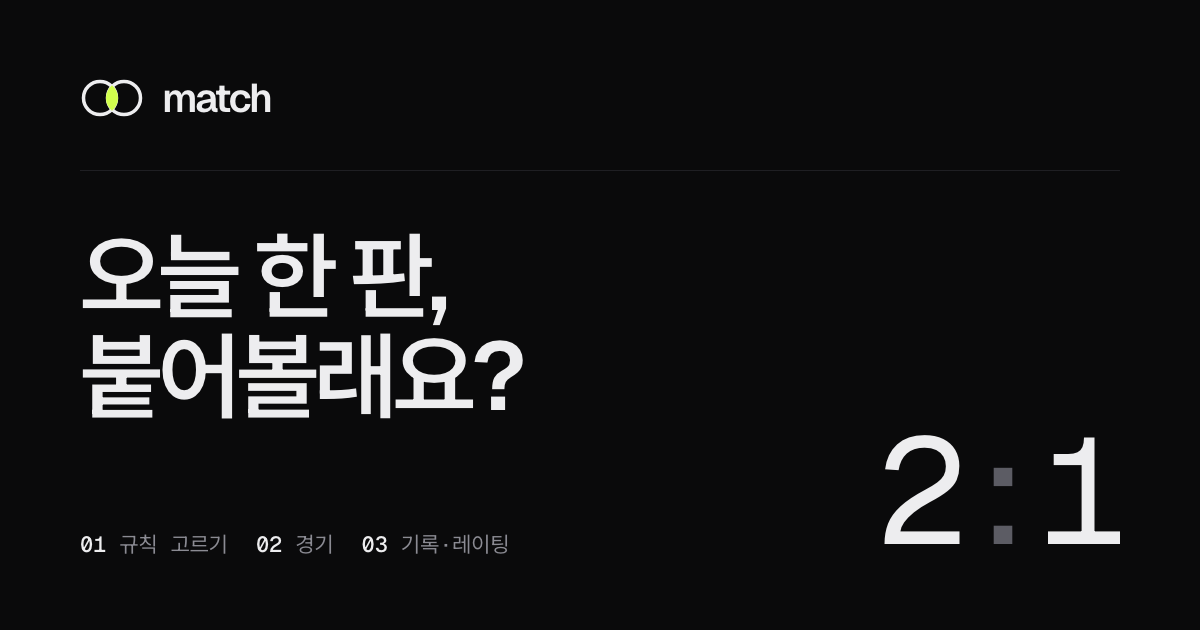
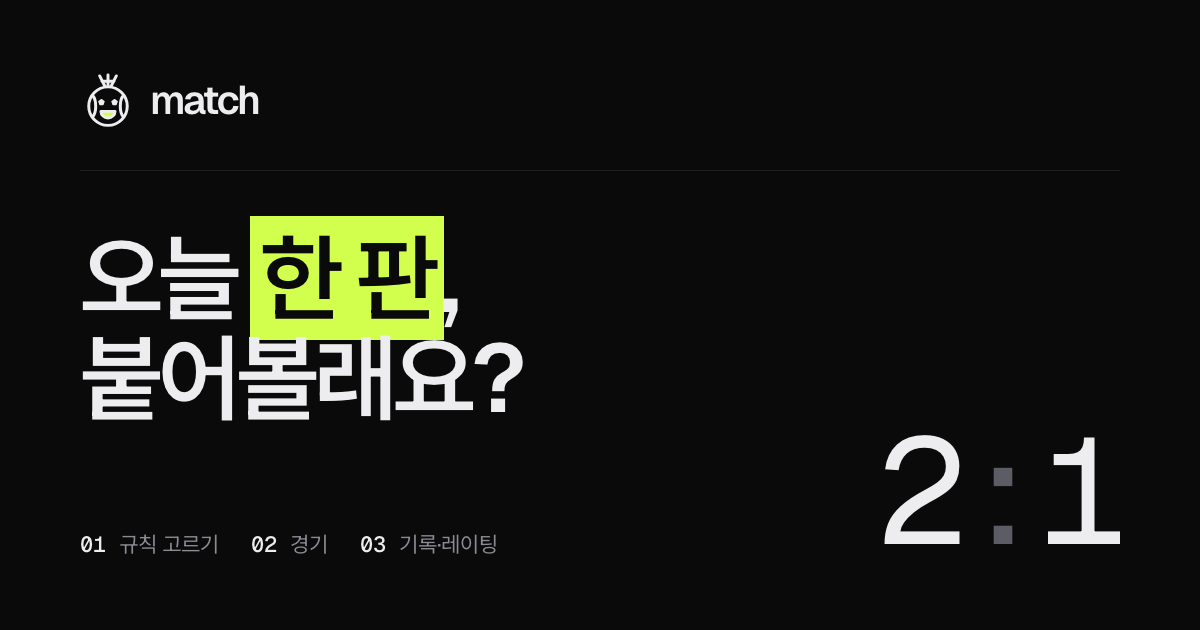
brand: 새 로고 — 공들이 모인 얼굴
예전 로고의 발상(셔틀콕 깃털 머리, 축구공 눈, 농구공, 미소)을 앱 아이콘과 같은 선으로 다시 그림.
깃털은 인디언 머리장식으로 읽히지 않게 셔틀콕 깃털 + 띠로, 입은 볼트.

- BrandFace(표정 smile·neutral·wow), BrandMark(얼굴 + match)
- 파비콘·홈 화면 아이콘·링크 미리보기(형광펜 '한 판') 새로
- 움직임: 당겨서 새로고침에 얼굴이 굴러가고, 이긴 순간 얼굴이 튀어 오르고, 404에서 놀라 흔들린다
- 404 화면 새로

diff --git a/src/views/NotFoundView.vue b/src/views/NotFoundView.vue
@@ -1,33 +1,28 @@
 <template>
-  <div style="min-height: calc(var(--real-vh, 1vh) * 100)" class="flex flex-col items-center justify-between  bg-gray-800 p-6 text-center">
-    <UiIcon name="fas fa-arrow-left" class="self-start text-xl text-gray-400 mb-4" @click="goBack" />
-
-
-    <div>
-    <h1 class=" text-4xl font-bold text-gray-100 mb-2">Oops!<br> <span class="text-2xl font-bold">페이지를 찾을 수 없어요</span></h1>
-    <p class="mt-12 text-gray-500 mb-6 px-4">
-      죄송해요, 요청하신 페이지가 없거나 이동되었어요.
-      홈으로 다시 가볼까요?
-    </p>
-</div>
-    <div class="w-full">
-      <button
-        @click="goHome"
-        class="w-full justify-center flex items-center bg-primary text-primary-on px-5 py-3 rounded-lg shadow hover:bg-primary-press transition"
-      >
-        <UiIcon name="fas fa-home" class="mr-2" /> 홈으로
-      </button>
-    </div>
+  <div class="min-h-dvh bg-canvas flex flex-col pt-safe pb-safe">
+    <UiTopBar back />
+    <main class="flex-1 w-full max-w-md mx-auto px-6 flex flex-col">
+      <div class="flex-1 flex flex-col justify-center">
+        <span class="text-fg face-wobble inline-block w-fit"><BrandFace :size="72" mood="wow" /></span>
+        <p class="t-mono mt-8">404</p>
+        <h1 class="t-display mt-2">이 페이지는<br />없어요</h1>
+        <p class="t-body text-fg-muted mt-4">주소가 바뀌었거나 지워졌어요.</p>
+      </div>
+      <div class="pb-6">
+        <UiButton block size="lg" to="/">경기 보러 가기</UiButton>
+      </div>
+    </main>
   </div>
 </template>
 
 <script setup>
-import { useRouter } from 'vue-router'
-const router = useRouter()
-
-const goBack = () => history.back()
-const goHome = () => router.push('/')
+// 없는 주소. 매치 얼굴이 놀란 표정으로 살짝 흔들린다
+import BrandFace from '../components/BrandFace.vue'
+import { UiButton, UiTopBar } from '../components/ui'
 </script>
 
-<style scoped>
+<style>
+.face-wobble { animation: face-wobble 1.6s ease-in-out 0.2s 2 both; transform-origin: 50% 90%; }
+@keyframes face-wobble { 0%, 100% { transform: rotate(0); } 25% { transform: rotate(-8deg); } 75% { transform: rotate(8deg); } }
+@media (prefers-reduced-motion: reduce) { .face-wobble { animation: none; } }
 </style>

diff --git a/src/components/ui/UiPullIndicator.vue b/src/components/ui/UiPullIndicator.vue
@@ -1,18 +1,27 @@
 <template>
-  <div class="overflow-hidden flex items-end justify-center transition-[height] duration-150" :style="{ height: (refreshing ? 48 : pull) + 'px' }" aria-live="polite">
-    <UiSpinner v-if="refreshing" class="mb-3 text-fg-muted" label="새로고침 중" />
-    <UiIcon
-      v-else-if="pull > 8"
-      name="arrow-down"
-      class="mb-3 text-fg-muted"
-      :style="{ transform: `rotate(${pull >= 70 ? 180 : 0}deg)`, opacity: Math.min(1, pull / 70), transition: 'transform .15s' }"
-    />
+  <div class="overflow-hidden flex items-end justify-center transition-[height] duration-150" :style="{ height: (refreshing ? 52 : pull) + 'px' }" aria-live="polite">
+    <!-- 당기는 만큼 매치 얼굴이 돌고, 새로고침하는 동안 굴러간다 -->
+    <span
+      v-if="refreshing || pull > 8"
+      class="mb-3 text-fg"
+      :class="refreshing ? 'pull-face-spin' : ''"
+      :style="refreshing ? {} : { transform: `rotate(${Math.min(pull, 90) * 4}deg)`, opacity: Math.min(1, pull / 60) }"
+      :aria-label="refreshing ? '새로고침 중' : undefined"
+    >
+      <BrandFace :size="26" :mood="pull >= 70 || refreshing ? 'smile' : 'neutral'" />
+    </span>
   </div>
 </template>
 
 <script setup>
 // usePullToRefresh와 짝. 목록 맨 위에 둔다
 import { defineProps } from 'vue'
-import UiSpinner from './UiSpinner.vue'
+import BrandFace from '../BrandFace.vue'
 defineProps({ pull: { type: Number, default: 0 }, refreshing: { type: Boolean, default: false } })
 </script>
+
+<style>
+.pull-face-spin { display: inline-block; animation: pull-face-roll 0.9s cubic-bezier(0.45, 0, 0.55, 1) infinite; }
+@keyframes pull-face-roll { to { transform: rotate(360deg); } }
+@media (prefers-reduced-motion: reduce) { .pull-face-spin { animation-duration: 2.4s; } }
+</style>

diff --git a/src/views/game/GameResultView.vue b/src/views/game/GameResultView.vue
@@ -19,6 +19,8 @@
     <template v-else>
       <!-- 결과 한 줄 + 점수판: 이 앱에서 감정이 가장 실리는 순간이라 글자와 숫자로 크게 -->
       <section>
+        <!-- 이긴 순간: 매치 얼굴이 통통 튀어 오른다 -->
+        <span v-if="headline.mark && isParticipant" class="block w-fit mx-auto mb-4 text-fg win-bounce"><BrandFace :size="48" /></span>
         <p class="text-center t-caption">{{ game.rule?.ruleTitle }}<span v-if="playedOn" class="t-mono ml-2">{{ playedOn }}</span></p>
         <h1 class="t-display text-center mt-3" :class="headline.tone"><span :class="headline.mark ? 'hl hl-draw' : ''">{{ headline.text }}</span></h1>
 
@@ -269,6 +271,7 @@ import { getMyId } from '@/utils/me'
 import { POST } from '../../api/client'
 import { refreshOnChange } from '../../websocket/userChannel'
 import { matchTime } from '../../utils/format'
+import BrandFace from '../../components/BrandFace.vue'
 import {
   UiAvatar, UiButton, UiCard, UiEmptyState, UiInput, UiSection, UiRollNumber, UiSkeleton, UiTopBar,
 } from '../../components/ui'
@@ -790,3 +793,13 @@ async function onShare() {
   }
 }
 </script>
+
+<style>
+.win-bounce { animation: win-bounce 0.9s cubic-bezier(0.34, 1.56, 0.64, 1) 0.1s both; }
+@keyframes win-bounce {
+  0% { transform: translateY(16px) scale(0.6); opacity: 0; }
+  60% { transform: translateY(-6px) scale(1.08); opacity: 1; }
+  100% { transform: translateY(0) scale(1); }
+}
+@media (prefers-reduced-motion: reduce) { .win-bounce { animation: none; } }
+</style>

diff --git a/src/components/BrandFace.vue b/src/components/BrandFace.vue
@@ -1,0 +1,19 @@
+<template>
+  <!-- 매치 얼굴: 셔틀콕 깃털(머리), 축구공 오각형(눈), 농구공 솔기(볼), 웃는 입(볼트). 여러 종목이 모여 한 사람 -->
+  <svg :width="size" :height="size" viewBox="0 0 64 64" fill="none" stroke="currentColor" stroke-width="3.4" stroke-linecap="round" stroke-linejoin="round" aria-hidden="true">
+    <path d="M28.6 16.6L22.5 4.5" /><path d="M32 16.5V3.5" /><path d="M35.4 16.6l6.1-12.1" /><path d="M25.4 10.5h13.2" />
+    <circle cx="32" cy="39" r="22" />
+    <path d="M14.5 27c4.6 5 4.6 19 0 24" /><path d="M49.5 27c-4.6 5-4.6 19 0 24" />
+    <path d="M24.5 31.5l3 2.2-1.2 3.5h-3.6l-1.2-3.5z" fill="currentColor" stroke-width="1.4" />
+    <path d="M39.5 31.5l3 2.2-1.2 3.5h-3.6l-1.2-3.5z" fill="currentColor" stroke-width="1.4" />
+    <path v-if="mood === 'smile'" d="M24 45h16a8 7.5 0 0 1-16 0z" fill="#d2ff4d" />
+    <path v-else-if="mood === 'neutral'" d="M26 48.5h12" />
+    <ellipse v-else cx="32" cy="48.5" rx="3.6" ry="4.2" fill="#d2ff4d" />
+  </svg>
+</template>
+
+<script setup>
+// 로고의 얼굴. 표정(mood): smile(기본) · neutral(비었을 때) · wow(놀람, 404)
+import { defineProps } from 'vue'
+defineProps({ size: { type: [Number, String], default: 24 }, mood: { type: String, default: 'smile' } })
+</script>

diff --git a/src/components/BrandMark.vue b/src/components/BrandMark.vue
@@ -1,17 +1,13 @@
 <template>
   <span class="inline-flex items-center gap-2 text-fg" :style="{ fontSize: size }" aria-label="match">
-    <!-- 두 사람이 만나 한 판: 겹친 두 원. 아이콘과 같은 선 굵기 -->
-    <svg viewBox="0 0 32 20" :height="'1em'" :width="'1.6em'" fill="none" aria-hidden="true">
-      <circle cx="10" cy="10" r="8.25" stroke="currentColor" stroke-width="1.75" />
-      <circle cx="22" cy="10" r="8.25" stroke="currentColor" stroke-width="1.75" />
-      <path d="M16 3.6a8.25 8.25 0 0 1 0 12.8a8.25 8.25 0 0 1 0-12.8z" fill="#d2ff4d" />
-    </svg>
+    <BrandFace size="1.35em" class="-my-[0.2em]" />
     <span v-if="!markOnly" class="font-semibold leading-none tracking-[-0.055em]" aria-hidden="true">match</span>
   </span>
 </template>
 
 <script setup>
-// 매치 로고: 마크 + 'match' 글자. 크기는 size(글자 크기)로
+// 매치 로고: 얼굴 + 'match' 글자. 크기는 size(글자 크기)로
 import { defineProps } from 'vue'
+import BrandFace from './BrandFace.vue'
 defineProps({ size: { type: String, default: '24px' }, markOnly: { type: Boolean, default: false } })
 </script>

diff --git a/src/components/ui/UiEmptyState.vue b/src/components/ui/UiEmptyState.vue
@@ -1,6 +1,8 @@
 <template>
   <div class="flex flex-col items-center text-center py-14 px-6">
-    <span v-if="icon" class="w-14 h-14 mb-5 rounded-2xl bg-surface-2 flex items-center justify-center text-fg-muted" aria-hidden="true">
+    <!-- face: 아이콘 대신 매치 얼굴 (무표정) — 앱 전체가 텅 빈 순간에 -->
+    <span v-if="face" class="mb-5 text-fg-muted" aria-hidden="true"><BrandFace :size="56" mood="neutral" /></span>
+    <span v-else-if="icon" class="w-14 h-14 mb-5 rounded-2xl bg-surface-2 flex items-center justify-center text-fg-muted" aria-hidden="true">
       <UiIcon :name="icon" class="text-[26px]" />
     </span>
     <p class="t-heading">{{ title }}</p>
@@ -12,8 +14,10 @@
 <script setup>
 // 비어 있을 때: 무엇이 없는지 + 다음에 할 일(버튼)
 import { defineProps } from 'vue'
+import BrandFace from '../BrandFace.vue'
 defineProps({
   icon: { type: String, default: '' },
+  face: { type: Boolean, default: false },
   title: { type: String, required: true },
   description: { type: String, default: '' },
 })

diff --git a/src/components/ui/README.md b/src/components/ui/README.md
@@ -49,6 +49,8 @@
 | `UiSection` | 화면 안의 묶음 (제목 + 오른쪽 행동) |
 | `UiChip` / `UiBadge` / `UiTabs` | 고르기 / 상태 / 보기 바꾸기 |
 | `UiAvatar` | 프로필 사진. 없으면 이름마다 정해지는 차분한 그라데이션 + 첫 글자 |
+| `BrandFace` / `BrandMark` | 매치 얼굴(셔틀콕 머리·축구공 눈·농구공 솔기·볼트 입) / 얼굴 + `match` 글자. 표정 `mood`: smile·neutral·wow. 당겨서 새로고침, 404, 이긴 순간, 빈 화면(`UiEmptyState face`)에 쓴다 |
+| `UiRollNumber` | 결과 점수·승률처럼 '나온 순간'이 중요한 숫자. 점수판처럼 굴러 올라온다 |
 | `UiIcon` | 모든 아이콘. `name="plus"` (예전 `fas fa-plus`도 받는다), 켜진 하트·별은 `filled` |
 | `UiEmptyState` | 비었을 때: 무엇이 없는지 + 다음 행동 |
 | `UiSkeleton` / `UiListSkeleton` | 불러오는 동안 실제 모양 그대로 자리 표시 (빛이 지나간다) |
